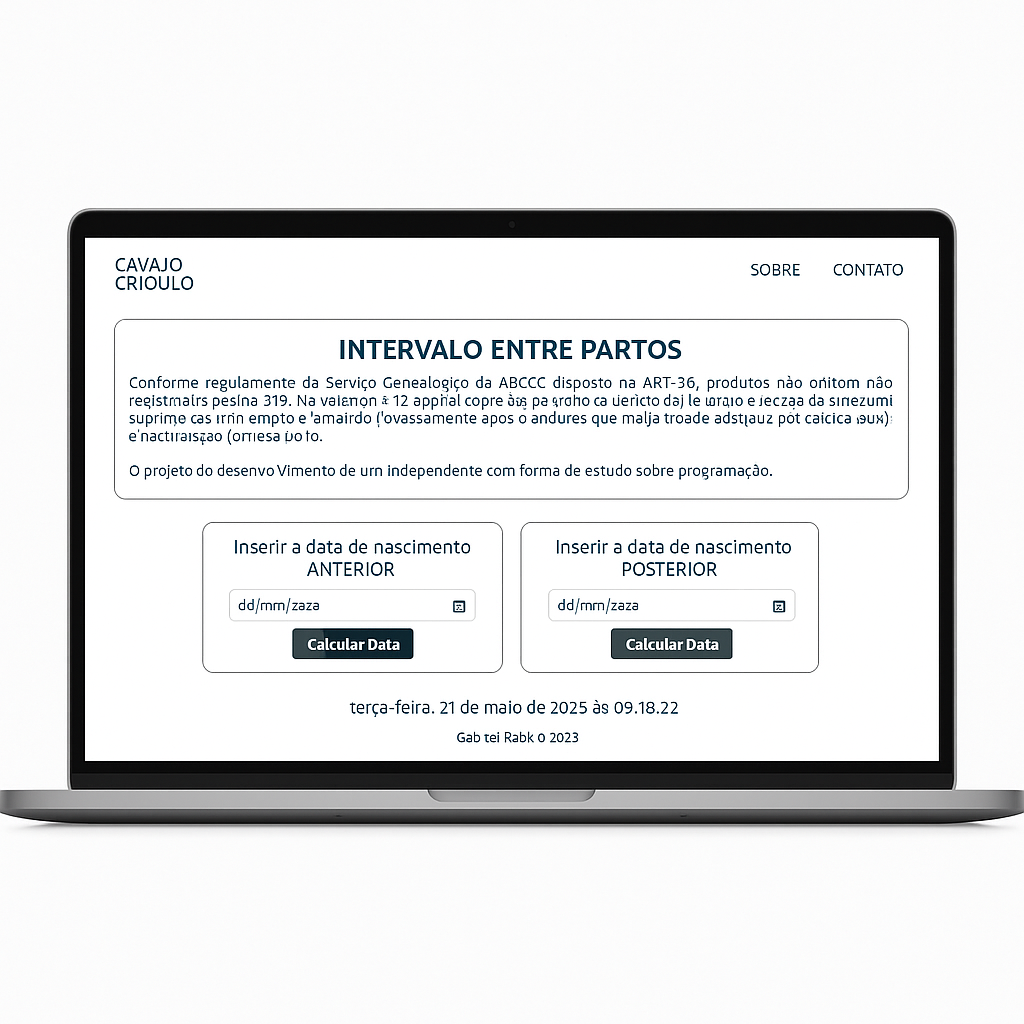
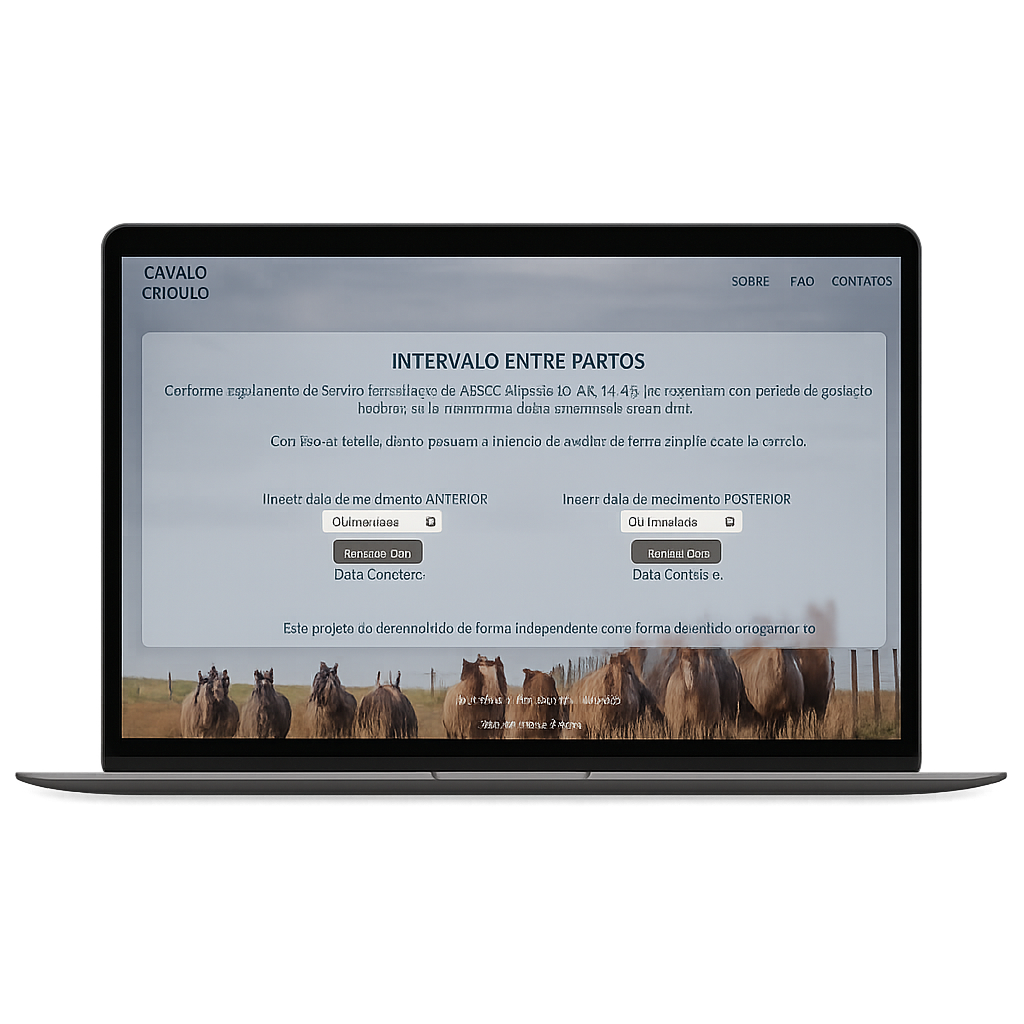
background image

diff --git a/index.js b/index.js
@@ -3,20 +3,39 @@ const modoCorBtn = document.querySelector('.modo-cor');
 let idiomaAtual = 'pt';
 let modoEscuroAtivo = false;
 
+// Lista dos idiomas disponíveis
+const idiomas = ['pt', 'en', 'es'];
+let idiomaIndex = 0;
+
+// Alternância de idioma ao clicar
 idiomaBtn.addEventListener('click', () => {
-  idiomaAtual = idiomaAtual === 'pt' ? 'en' : 'pt';
-  idiomaBtn.src = idiomaAtual === 'pt' ? '/imagens/icons/pt-br.png' : '/imagens/icons/en-us.png';
+  // Avança para o próximo idioma no array
+  idiomaIndex = (idiomaIndex + 1) % idiomas.length;
+  idiomaAtual = idiomas[idiomaIndex];
+
+  // Atualiza o ícone de bandeira
+  if (idiomaAtual === 'pt') {
+    idiomaBtn.src = '/imagens/icons/pt-br.png';
+  } else if (idiomaAtual === 'en') {
+    idiomaBtn.src = '/imagens/icons/en-us.png';
+  } else if (idiomaAtual === 'es') {
+    idiomaBtn.src = '/imagens/icons/es.png';
+  }
+
+  // Atualiza os textos com base no idioma
   document.querySelectorAll('[data-pt]').forEach(element => {
     element.textContent = element.getAttribute(`data-${idiomaAtual}`);
   });
 });
 
+// Alternância do modo claro/escuro
 modoCorBtn.addEventListener('click', () => {
   document.body.classList.toggle('dark-mode');
   modoEscuroAtivo = !modoEscuroAtivo;
   modoCorBtn.src = modoEscuroAtivo ? '/imagens/icons/sun.png' : '/imagens/icons/moon.png';
 });
 
+// Atualiza a hora local
 function updateLocalTime() {
   const now = new Date();
   const hours = String(now.getHours()).padStart(2, '0');

diff --git a/index.html b/index.html
@@ -26,7 +26,7 @@
         </div>
       </div>
       <div class="coluna-direita">
-        <h1 data-pt="Gabriel Radtke" data-en="Gabriel Radtke">Gabriel Radtke</h1>
+        <p data-pt="Olá" data-en="Hello" data-es="Hola">Olá</p>
         <h2 data-pt="Ciências da Computação" data-en="Computer Science">Ciências da Computação</h2>
         <div class="social-icons">
           <a href="https://br.linkedin.com/in/gabrielradtke"><img class="icon" alt="linkedin"

diff --git a/style.css b/style.css
@@ -22,7 +22,9 @@ body {
 
 /* Garante que o conteúdo principal cresça para ocupar espaço */
 main {
-  flex: 1;
+  background-image: url(/imagens/pexels-steve-1843717.jpg);
+  flex: -1;
+
 }
 
 .root-principal {
@@ -407,6 +409,7 @@ a h4 {
   .container-projetos a .imagem-projeto {
     align-items: center;
     justify-content: center;
+    border-radius: 5px;
   }
 
 }
